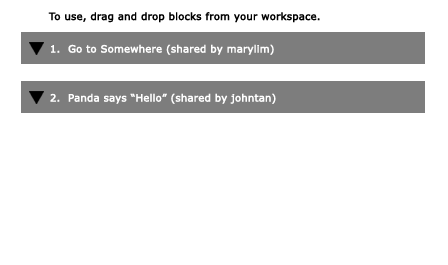
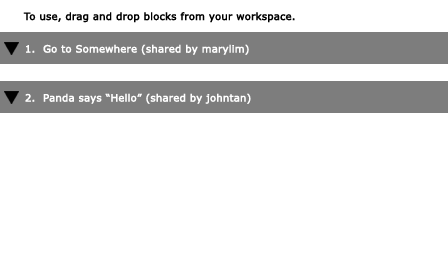
Sharebox Script tab modification

diff --git a/gui.js b/gui.js
@@ -1680,7 +1680,7 @@ IDE_Morph.shareBoxPrototypeFunctionality = function (myself) {
                 shareBoxBG.hide();
             }
         },
-        new Point(20, 20), 42, 130);
+        new Point(20, 20), 18, 130);
     this.scriptListScreen.add(shareBoxCloseScript);
     this.scriptListScreen.add(shareBoxBG);
     this.scriptListScreen.add(hiddenButton);
